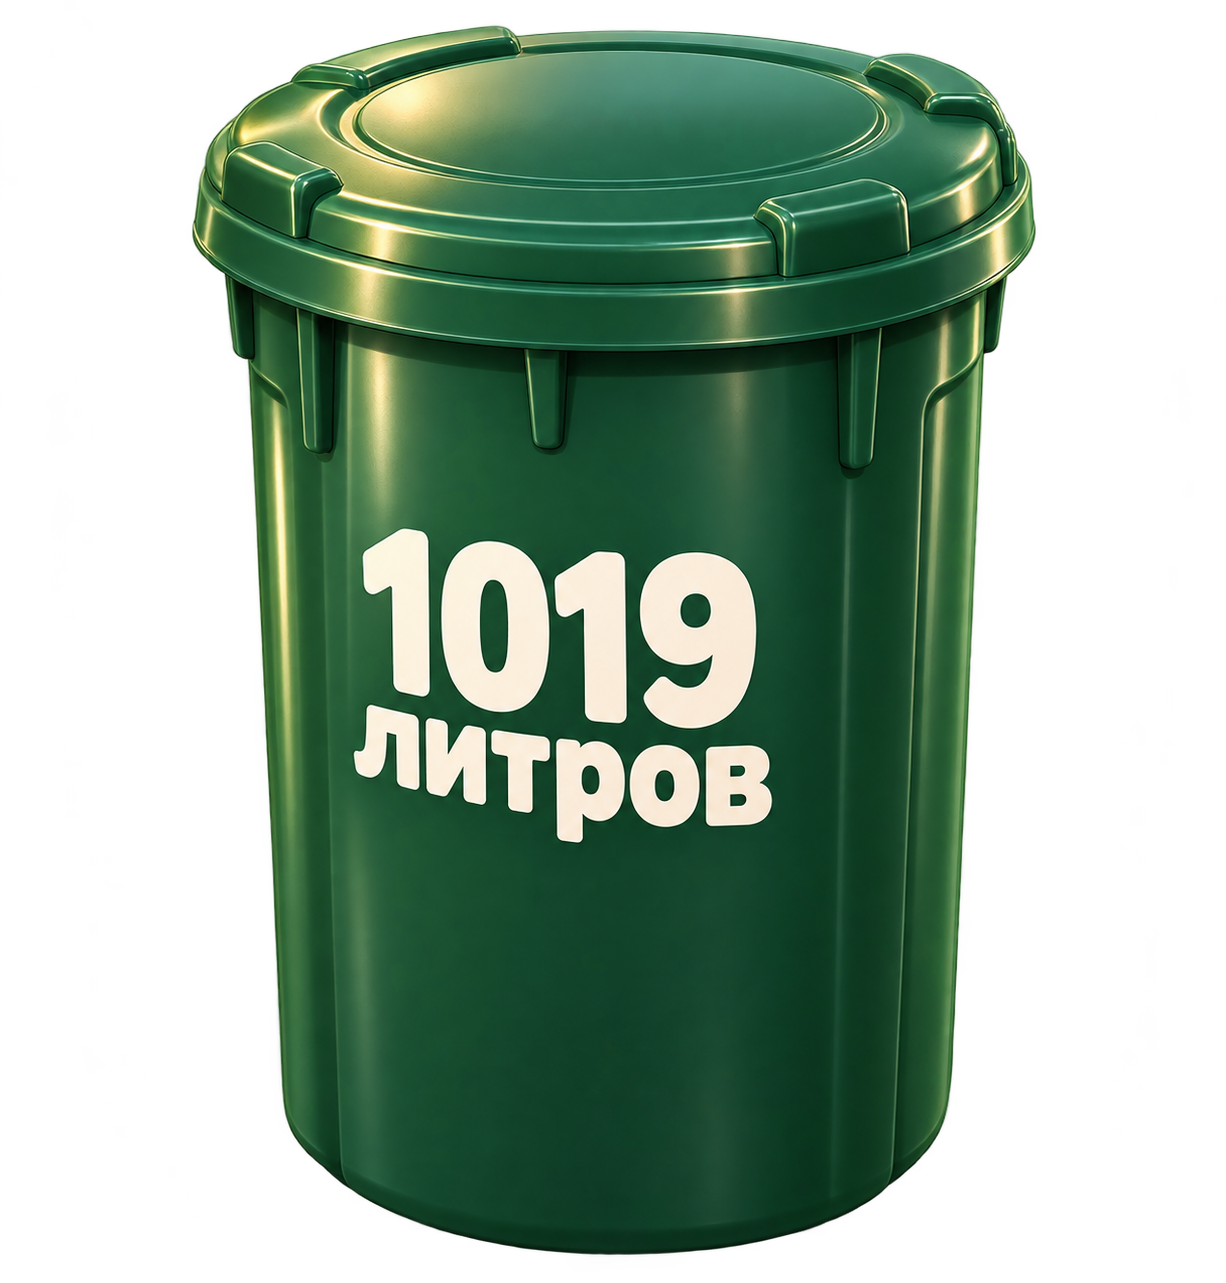
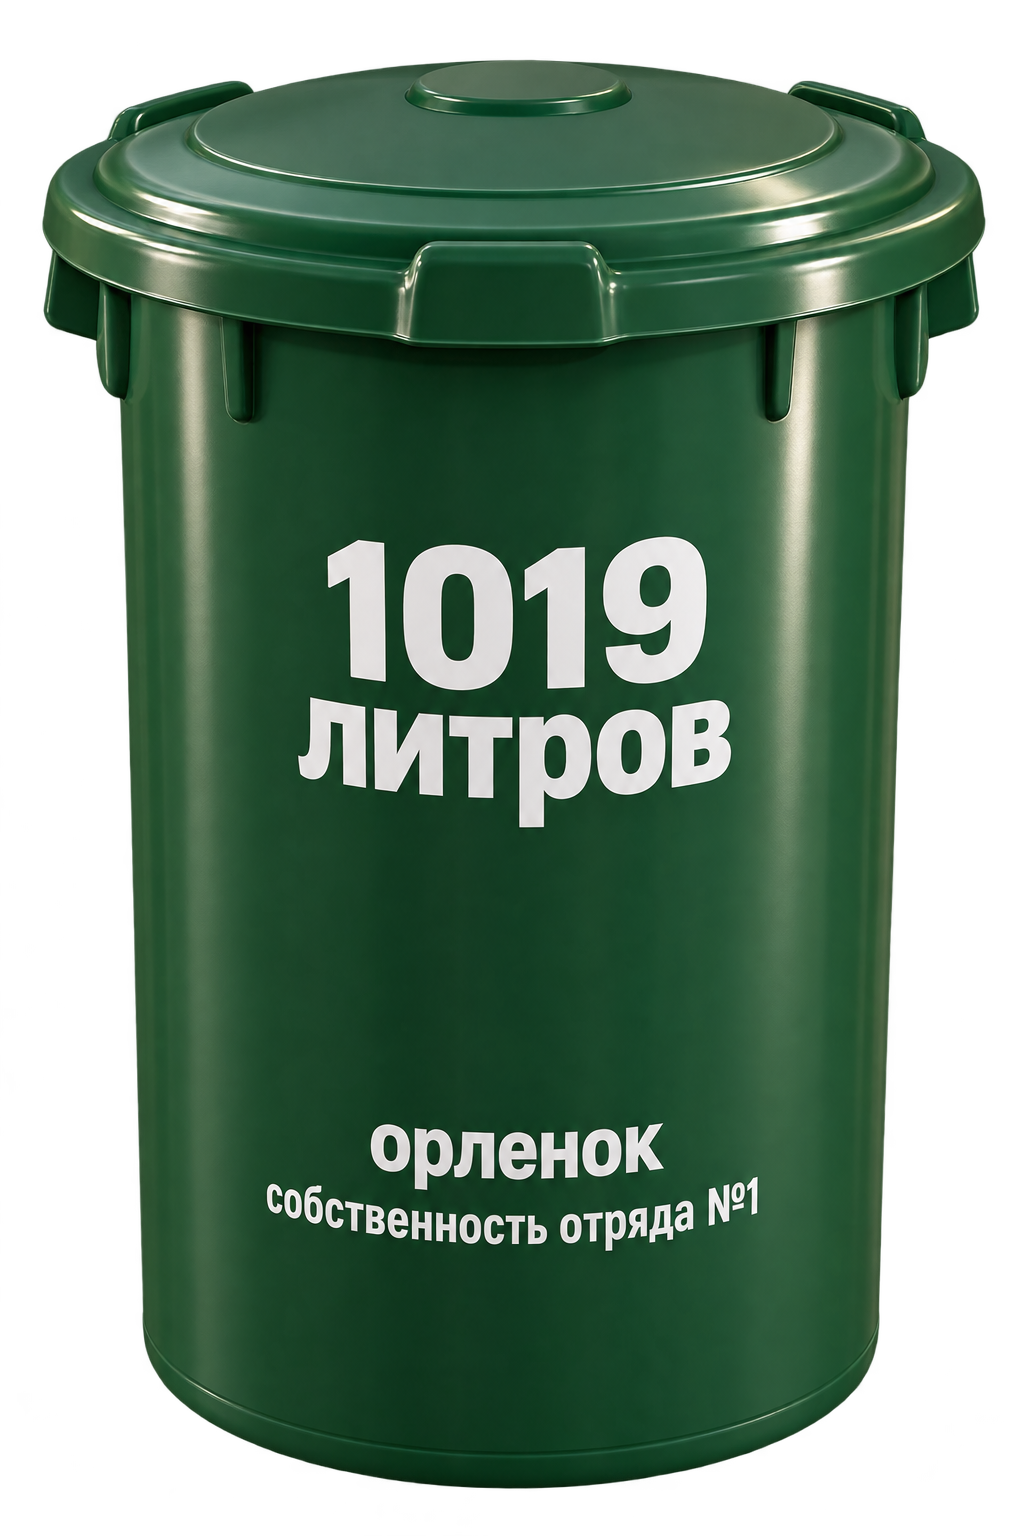
Обновить Слизнежижа: лесной пищеблок, снитч и превращения

diff --git a/other/lass/index.html b/other/lass/index.html
@@ -1,15 +1,36 @@
-<!doctype html><html lang="ru"><head><meta charset="utf-8"><meta name="viewport" content="width=device-width,initial-scale=1"><title>Лаборатория слизнежижа</title><meta name="description" content="Волшебное превращение ведра в слизня">
+<!doctype html><html lang="ru"><head><meta charset="utf-8"><meta name="viewport" content="width=device-width,initial-scale=1"><title>Слизнежиж — Пищеблок</title><meta name="description" content="Лесная магия и приключения Слизнежижа">
 <style>
 @import url('https://fonts.googleapis.com/css2?family=Nunito:wght@600;800;900&display=swap');
 *{box-sizing:border-box}body{margin:0;background:radial-gradient(ellipse at 50% 40%,#365842,#192d23 65%,#111c17);color:#f6f3de;min-height:100svh;font-family:Nunito,sans-serif}.app{max-width:1120px;margin:auto;padding:25px;min-height:100svh;display:flex;flex-direction:column}.head{display:flex;justify-content:space-between;color:#c9e0b3;font-size:11px;font-weight:900;letter-spacing:.12em}.tag{border:1px solid #7a917b;border-radius:40px;padding:8px 14px}h1{text-align:center;font-size:clamp(38px,6vw,68px);line-height:1;margin:34px 0 10px;letter-spacing:-.05em}h1 span{color:#c7e88f}.hint{text-align:center;color:#b5cab1;min-height:25px;margin:0}.game{display:grid;grid-template-columns:170px minmax(0,1fr) 170px;align-items:center;gap:10px;flex:1;min-height:530px}.shelf{display:flex;flex-direction:column;align-items:center;gap:25px;z-index:3}.item{touch-action:none;cursor:grab;border:1px solid #66836a;border-radius:25px;width:154px;height:155px;background:linear-gradient(135deg,#334d3b,#21382b);box-shadow:0 14px 24px #0003;color:#f7f2df;display:flex;flex-direction:column;align-items:center;justify-content:center;gap:6px;font:900 13px Nunito,sans-serif;transition:transform .2s,border-color .2s}.item:hover:not(:disabled){transform:translateY(-3px);border-color:#dcf19b}.item img{display:block;width:95%;height:111px;object-fit:contain;pointer-events:none;filter:drop-shadow(0 6px 6px #0005)}.item:disabled{opacity:.42;cursor:default}.item.selected{border-color:#ffe6a0;box-shadow:0 0 25px #ffe09c75}.wand-shape{height:105px;font-size:90px;line-height:1;transform:rotate(-27deg);filter:drop-shadow(0 5px 6px #0008)}.placeholder{border:1px dashed #607763;border-radius:24px;width:154px;height:155px;display:flex;flex-direction:column;justify-content:center;align-items:center;gap:6px;color:#97ad99;font-size:12px;text-align:center}.placeholder b{font-size:42px}.stage{position:relative;height:520px;min-width:0;display:flex;align-items:center;justify-content:center;isolation:isolate}.stage:before{content:'';position:absolute;z-index:-1;bottom:60px;width:80%;height:65px;background:#0009;border-radius:50%;filter:blur(27px)}.subject{position:relative;height:100%;width:min(490px,100%);display:flex;justify-content:center;align-items:center}.subject .base{width:100%;height:100%;object-fit:contain;animation:breathe 3.5s ease-in-out infinite;filter:drop-shadow(0 14px 13px #0007)}.subject.bucket .base{width:83%;height:91%;cursor:pointer}.subject.castable{filter:drop-shadow(0 0 18px #eedb9c)}.subject .glasses-overlay{position:absolute;width:52%;height:auto;left:25%;top:15%;transform:rotate(-2deg);filter:drop-shadow(0 4px 4px #0009);pointer-events:none}.subject .glasses-overlay[hidden]{display:none}.subject.boing .base{animation:boing .6s}.stage.target{outline:3px dashed #bfe59c;border-radius:45%;outline-offset:-8px}.notice{position:absolute;top:1%;left:50%;transform:translateX(-50%);z-index:7;background:#f9f0d8;color:#3e573c;padding:12px 20px;border-radius:26px;font-weight:900;min-width:190px;text-align:center;box-shadow:0 7px 24px #0006;opacity:0;transition:opacity .2s;pointer-events:none}.notice.show{opacity:1}.smoke{position:absolute;inset:0;z-index:5;visibility:hidden;pointer-events:none;overflow:hidden}.smoke.on{visibility:visible}.puff{position:absolute;left:var(--x);top:var(--y);width:var(--s);height:var(--s);border-radius:50%;background:radial-gradient(circle,#edf4eaf5,#bad8c8d9 38%,#8bb6a288 60%,transparent 74%);filter:blur(12px);opacity:0;animation:float 1.2s ease-out both;animation-delay:var(--delay)}.smoke:not(.on) .puff{animation:none}.spark{position:absolute;left:var(--x);top:var(--y);color:#ffe6a0;font-size:29px;text-shadow:0 0 14px gold;animation:twinkle 1.1s ease-out both;animation-delay:var(--delay)}.smoke:not(.on) .spark{animation:none}.footer{display:flex;justify-content:center;align-items:center;gap:25px;color:#a9beaa;font-size:12px;flex-wrap:wrap}.reset{border:1px solid #7b957d;background:transparent;color:#e2efce;padding:11px 18px;border-radius:45px;font:800 13px Nunito,sans-serif;cursor:pointer}.ghost{position:fixed;z-index:20;pointer-events:none;width:115px;height:115px;object-fit:contain;transform:translate(-50%,-50%);filter:drop-shadow(0 10px 9px #0009)}@keyframes breathe{50%{transform:scale(1.018,.992)}}@keyframes boing{32%{transform:scale(1.07,.9)}70%{transform:scale(.96,1.05)}}@keyframes float{0%{opacity:0;transform:scale(.1)}28%{opacity:.9}58%{opacity:1}100%{opacity:0;transform:translate(var(--dx),-90px) scale(1.5)}}@keyframes twinkle{0%{opacity:0;transform:scale(.2)}40%{opacity:1}100%{opacity:0;transform:translate(var(--dx),-100px) scale(1.5)}}
 @media(max-width:750px){.app{padding:17px 12px}.head{font-size:9px}h1{margin:25px 0 8px}.hint{font-size:13px}.game{display:flex;flex-direction:column;min-height:0;gap:10px}.stage{height:min(49vh,410px);width:100%}.shelf{width:100%;flex-direction:row;justify-content:center;gap:12px}.shelf.left{order:1}.shelf.right{order:2}.item,.placeholder{width:44%;max-width:170px;height:115px;border-radius:19px}.item img{height:81px}.item .wand-shape{height:75px;font-size:65px}.placeholder b{font-size:27px}.footer{margin-top:25px;gap:12px}}@media(prefers-reduced-motion:reduce){.base{animation:none!important}.puff,.spark{animation-duration:.01ms}}
-</style></head><body><main class="app"><header class="head"><span>✦ ЛАБОРАТОРИЯ СТРАННЫХ СУЩЕСТВ</span><span class="tag">ЭКСПЕРИМЕНТ № 001</span></header><h1>Слизне<span>жиж</span></h1><p class="hint" id="hint">Возьми волшебную палочку и коснись ведра</p><section class="game"><div class="shelf left"><button class="item" id="wand" aria-label="Взять волшебную палочку" aria-pressed="false"><span class="wand-shape">🪄</span><span>Палочка</span></button><button class="item" id="tomato" data-effect="tomato" disabled aria-label="Перетащить помидор из корзины"><img src="basket.png" alt=""><span>Помидорка</span></button></div><div class="stage" id="stage"><div class="notice" id="notice" role="status" aria-live="polite"></div><div class="subject bucket" id="subject" role="button" tabindex="0" aria-label="Ведро на 1019 литров"><img class="base" id="base" src="bucket.png" alt="Зеленое ведро на 1019 литров"><img class="glasses-overlay" id="glasses-layer" src="glasses.png" alt="" hidden></div><div class="smoke" id="smoke" aria-hidden="true"></div></div><div class="shelf right"><button class="item" id="glasses" data-effect="glasses" disabled aria-label="Перетащить очки на слизня"><img src="glasses.png" alt=""><span>Очки крутости</span></button><div class="placeholder"><b>👑</b><strong>Корона</strong><span>Скоро появится</span></div></div></section><footer class="footer"><span>Магия требует немного терпения ✨</span><button class="reset" id="reset">↺ Начать заново</button><span>Слизень не пострадал</span></footer></main>
+body{background:#19251c url('background.png') center center/cover fixed no-repeat;color:#fff4df}
+body:before{content:'';position:fixed;inset:0;background:linear-gradient(180deg,#0b160ab8,#14200d68 32%,#0b1308a3 100%);pointer-events:none}
+.app{position:relative;z-index:1;max-width:1180px}
+.head{color:#f6ddb1;text-shadow:0 2px 8px #000b}
+.tag{background:#17271999;border-color:#cfb48b77}
+h1{font-family:Georgia,serif;letter-spacing:-.045em;text-shadow:0 5px 20px #000b;margin-top:25px}
+h1 span{color:#e3bc6d}
+.hint{color:#f6e4c7;text-shadow:0 2px 8px #000;font-weight:800}
+.game{grid-template-columns:160px minmax(0,1fr) 160px}
+.item{width:150px;height:150px;background:linear-gradient(145deg,#283a28d9,#182719e8);border:1px solid #d7b8797c;box-shadow:0 10px 27px #0009;backdrop-filter:blur(9px);color:#fff4df}
+.item.selected{border-color:#f5d68c;box-shadow:0 0 30px #eac77a87}
+.item:hover:not(:disabled){border-color:#f5d68c}
+.item img{height:113px;width:98%;filter:drop-shadow(0 7px 8px #0007)}
+.subject .base{animation:breathe 3.5s ease-in-out infinite;filter:drop-shadow(0 17px 20px #0009)}
+.subject.bucket .base{width:83%;height:91%}
+.subject .glasses-overlay{inset:0;width:100%;height:100%;object-fit:contain;transform:none;filter:none}
+.stage:before{bottom:26px;background:#000b}
+.footer{color:#f9e3bc;text-shadow:0 2px 8px #000}
+.reset{background:#1d2e20c9;border-color:#d4b77e;color:#fbe7c7}
+.notice{background:#fff1ce;color:#35412b}
+@media(max-width:750px){body{background-position:center center}.app{padding:15px 12px}.game{gap:2px}.stage{height:min(46vh,390px)}.item{width:44%;height:114px}.item img{height:79px}.head{font-size:9px}h1{font-size:clamp(36px,9vw,56px)}.footer{margin-top:14px}}
+</style></head><body><main class="app"><header class="head"><span>✦ ЛАГЕРЬ «ТАЖИН ЗАПЕКАНОНИК»</span><span class="tag">ПИЩЕБЛОК · ОТРЯД № 1</span></header><h1>Слизне<span>жиж</span></h1><p class="hint" id="hint">Возьми волшебную палочку и коснись ведра</p><section class="game"><div class="shelf left"><button class="item" id="wand" aria-label="Взять волшебную палочку" aria-pressed="false"><img src="wand.png" alt=""><span>Палочка</span></button><button class="item" id="tomato" data-effect="tomato" disabled aria-label="Перетащить помидор из корзины"><img src="basket.png" alt=""><span>Помидорка</span></button></div><div class="stage" id="stage"><div class="notice" id="notice" role="status" aria-live="polite"></div><div class="subject bucket" id="subject" role="button" tabindex="0" aria-label="Ведро на 1019 литров"><img class="base" id="base" src="bucket.png" alt="Зеленое ведро на 1019 литров"><img class="glasses-overlay" id="glasses-layer" src="glasses.png" alt="" hidden></div><div class="smoke" id="smoke" aria-hidden="true"></div></div><div class="shelf right"><button class="item" id="glasses" data-effect="glasses" disabled aria-label="Перетащить очки на слизня"><img src="glasses.png" alt=""><span>Очки крутости</span></button><button class="item" id="snitch" data-effect="snitch" disabled aria-label="Перетащить снитч на слизня"><img src="snitch.png" alt=""><span>Золотой снитч</span></button></div></section><footer class="footer"><span>Собственность отряда № 1</span><button class="reset" id="reset">↺ Начать заново</button><span>Слизень не пострадал. Почти.</span></footer></main>
 <script>
-const subject=document.getElementById('subject'),base=document.getElementById('base'),stage=document.getElementById('stage'),smoke=document.getElementById('smoke'),hint=document.getElementById('hint'),notice=document.getElementById('notice'),wand=document.getElementById('wand'),tomato=document.getElementById('tomato'),glasses=document.getElementById('glasses'),layer=document.getElementById('glasses-layer');const state={born:false,red:false,glasses:false,wand:false,busy:false};let drag=null,ghost=null,timer;const wait=t=>new Promise(r=>setTimeout(r,t));
+const subject=document.getElementById('subject'),base=document.getElementById('base'),stage=document.getElementById('stage'),smoke=document.getElementById('smoke'),hint=document.getElementById('hint'),notice=document.getElementById('notice'),wand=document.getElementById('wand'),tomato=document.getElementById('tomato'),glasses=document.getElementById('glasses'),snitch=document.getElementById('snitch'),layer=document.getElementById('glasses-layer');const state={born:false,color:'green',glasses:false,wand:false,busy:false};let drag=null,ghost=null,timer;const wait=t=>new Promise(r=>setTimeout(r,t));
 function say(s){notice.textContent=s;notice.classList.add('show');clearTimeout(timer);timer=setTimeout(()=>notice.classList.remove('show'),2200)}
 function fog(){smoke.replaceChildren();for(let i=0;i<18;i++){const p=document.createElement('i');p.className='puff';p.style.setProperty('--x',(17+Math.random()*64)+'%');p.style.setProperty('--y',(18+Math.random()*58)+'%');p.style.setProperty('--s',(100+Math.random()*160)+'px');p.style.setProperty('--delay',(Math.random()*.25)+'s');p.style.setProperty('--dx',((Math.random()-.5)*180)+'px');smoke.append(p)}for(let i=0;i<14;i++){const s=document.createElement('b');s.className='spark';s.textContent=i%2?'✦':'✧';s.style.setProperty('--x',(16+Math.random()*65)+'%');s.style.setProperty('--y',(20+Math.random()*62)+'%');s.style.setProperty('--delay',(Math.random()*.3)+'s');s.style.setProperty('--dx',((Math.random()-.5)*170)+'px');smoke.append(s)}}
-async function transform(type){if(state.busy||type==='birth'&&state.born||type!=='birth'&&!state.born||type==='tomato'&&state.red||type==='glasses'&&state.glasses)return;state.busy=true;fog();smoke.classList.add('on');await wait(470);if(type==='birth'){state.born=true;state.wand=false;wand.classList.remove('selected');wand.setAttribute('aria-pressed','false');subject.className='subject';base.src='green-slime.png';base.alt='Зеленый желейный слизень';tomato.disabled=glasses.disabled=false;hint.textContent='Перетащи помидор или очки на слизня';say('Бульк! Он ожил! 💚')}if(type==='tomato'){state.red=true;base.src='red-slime.png';base.alt='Красный томатный слизень';hint.textContent='Слизень готов к новым экспериментам';say('Томатная эволюция! 🍅')}if(type==='glasses'){state.glasses=true;layer.hidden=false;say('Теперь он крут! 😎')}await wait(800);smoke.classList.remove('on');subject.classList.add('boing');state.busy=false}
-wand.addEventListener('click',()=>{if(state.born)return say('Волшебство уже случилось!');state.wand=!state.wand;wand.classList.toggle('selected',state.wand);wand.setAttribute('aria-pressed',String(state.wand));subject.classList.toggle('castable',state.wand);hint.textContent=state.wand?'Теперь нажми на ведро':'Возьми волшебную палочку и коснись ведра'});function cast(){if(!state.born){if(state.wand)transform('birth');else say('Сначала возьми палочку!')}}subject.addEventListener('click',cast);subject.addEventListener('keydown',e=>{if(e.key==='Enter'||e.key===' '){e.preventDefault();cast()}});
-function move(e){if(!ghost)return;ghost.style.left=e.clientX+'px';ghost.style.top=e.clientY+'px';const r=subject.getBoundingClientRect();stage.classList.toggle('target',e.clientX>=r.left&&e.clientX<=r.right&&e.clientY>=r.top&&e.clientY<=r.bottom)}function end(){ghost?.remove();ghost=null;drag=null;stage.classList.remove('target')}for(const el of [tomato,glasses]){el.addEventListener('pointerdown',e=>{if(el.disabled||state.busy||e.button!==0)return;drag={id:e.pointerId,type:el.dataset.effect,x:e.clientX,y:e.clientY};el.setPointerCapture(e.pointerId);ghost=document.createElement('img');ghost.className='ghost';ghost.src=drag.type==='tomato'?'tomato.png':'glasses.png';document.body.append(ghost);move(e);e.preventDefault()});el.addEventListener('pointermove',e=>{if(drag&&e.pointerId===drag.id)move(e)});el.addEventListener('pointerup',e=>{if(!drag||e.pointerId!==drag.id)return;const r=subject.getBoundingClientRect();const hit=e.clientX>=r.left&&e.clientX<=r.right&&e.clientY>=r.top&&e.clientY<=r.bottom;const clicked=Math.hypot(e.clientX-drag.x,e.clientY-drag.y)<10;const type=drag.type;end();if(hit||clicked)transform(type)});el.addEventListener('pointercancel',end);el.addEventListener('keydown',e=>{if(e.key==='Enter'||e.key===' '){e.preventDefault();transform(el.dataset.effect)}})}
-document.getElementById('reset').addEventListener('click',()=>{if(state.busy)return;Object.assign(state,{born:false,red:false,glasses:false,wand:false,busy:false});base.src='bucket.png';base.alt='Зеленое ведро на 1019 литров';subject.className='subject bucket';layer.hidden=true;tomato.disabled=glasses.disabled=true;wand.classList.remove('selected');wand.setAttribute('aria-pressed','false');hint.textContent='Возьми волшебную палочку и коснись ведра';say('Начнем сначала!')});
+async function transform(type){if(state.busy||type==='birth'&&state.born||type==='return'&&!state.born||!['birth','return'].includes(type)&&!state.born||type==='glasses'&&state.glasses)return;state.busy=true;fog();smoke.classList.add('on');await wait(470);if(type==='birth'){state.born=true;state.color='green';subject.className='subject';base.src='green-slime.png';base.alt='Зеленый желейный слизень';tomato.disabled=glasses.disabled=snitch.disabled=false;hint.textContent='Угости его помидором, покажи снитч или примерь очки';say('Бульк! Он ожил! 💚')}if(type==='tomato'){state.color='red';base.src='red-slime.png';base.alt='Томатный слизень';say('Помидорное настроение! 🍅')}if(type==='snitch'){state.color='gold';base.src='gold-slime.png';base.alt='Золотой светящийся слизень';say('Поймал удачу за крылья! ✨')}if(type==='glasses'){state.glasses=true;layer.hidden=false;say('Теперь он крут! 😎')}if(type==='return'){state.born=false;state.color='green';state.glasses=false;base.src='bucket.png';base.alt='Ведро на 1019 литров';subject.className='subject bucket';layer.hidden=true;tomato.disabled=glasses.disabled=snitch.disabled=true;hint.textContent='Отбой окончен? Снова возьми палочку';say('Отбой, Слизнежиж! 🪣')}state.wand=false;wand.classList.remove('selected');wand.setAttribute('aria-pressed','false');subject.classList.remove('castable');await wait(800);smoke.classList.remove('on');subject.classList.add('boing');state.busy=false}
+wand.addEventListener('click',()=>{if(state.busy)return;state.wand=!state.wand;wand.classList.toggle('selected',state.wand);wand.setAttribute('aria-pressed',String(state.wand));subject.classList.toggle('castable',state.wand);hint.textContent=state.wand?(state.born?'Теперь коснись слизня палочкой':'Теперь коснись ведра палочкой'):(state.born?'Выбирай угощение или снова возьми палочку':'Возьми волшебную палочку и коснись ведра')});function cast(){if(state.busy)return;if(state.wand)transform(state.born?'return':'birth');else say('Сначала возьми палочку!')}subject.addEventListener('click',cast);subject.addEventListener('keydown',e=>{if(e.key==='Enter'||e.key===' '){e.preventDefault();cast()}});
+function move(e){if(!ghost)return;ghost.style.left=e.clientX+'px';ghost.style.top=e.clientY+'px';const r=subject.getBoundingClientRect();stage.classList.toggle('target',e.clientX>=r.left&&e.clientX<=r.right&&e.clientY>=r.top&&e.clientY<=r.bottom)}function end(){ghost?.remove();ghost=null;drag=null;stage.classList.remove('target')}for(const el of [tomato,glasses,snitch]){el.addEventListener('pointerdown',e=>{if(el.disabled||state.busy||e.button!==0)return;drag={id:e.pointerId,type:el.dataset.effect,x:e.clientX,y:e.clientY};el.setPointerCapture(e.pointerId);ghost=document.createElement('img');ghost.className='ghost';ghost.src=drag.type==='tomato'?'tomato.png':drag.type==='snitch'?'snitch.png':'glasses.png';document.body.append(ghost);move(e);e.preventDefault()});el.addEventListener('pointermove',e=>{if(drag&&e.pointerId===drag.id)move(e)});el.addEventListener('pointerup',e=>{if(!drag||e.pointerId!==drag.id)return;const r=subject.getBoundingClientRect();const hit=e.clientX>=r.left&&e.clientX<=r.right&&e.clientY>=r.top&&e.clientY<=r.bottom;const clicked=Math.hypot(e.clientX-drag.x,e.clientY-drag.y)<10;const type=drag.type;end();if(hit||clicked)transform(type)});el.addEventListener('pointercancel',end);el.addEventListener('keydown',e=>{if(e.key==='Enter'||e.key===' '){e.preventDefault();transform(el.dataset.effect)}})}
+document.getElementById('reset').addEventListener('click',()=>{if(state.busy)return;Object.assign(state,{born:false,color:'green',glasses:false,wand:false,busy:false});base.src='bucket.png';base.alt='Ведро на 1019 литров';subject.className='subject bucket';layer.hidden=true;tomato.disabled=glasses.disabled=snitch.disabled=true;wand.classList.remove('selected');wand.setAttribute('aria-pressed','false');hint.textContent='Возьми волшебную палочку и коснись ведра';say('Начнем сначала!')});
 </script></body></html>
